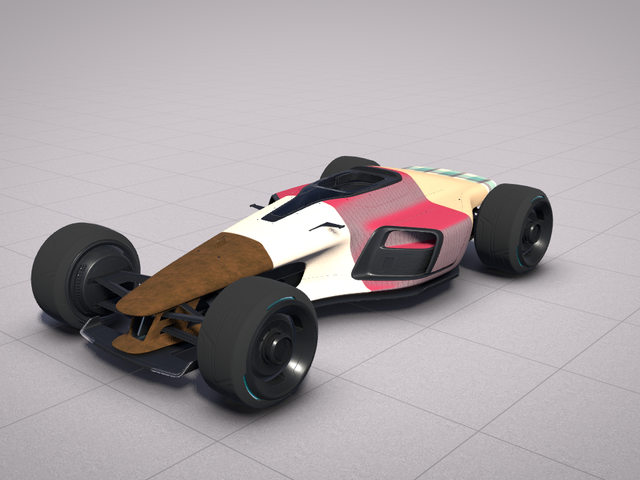
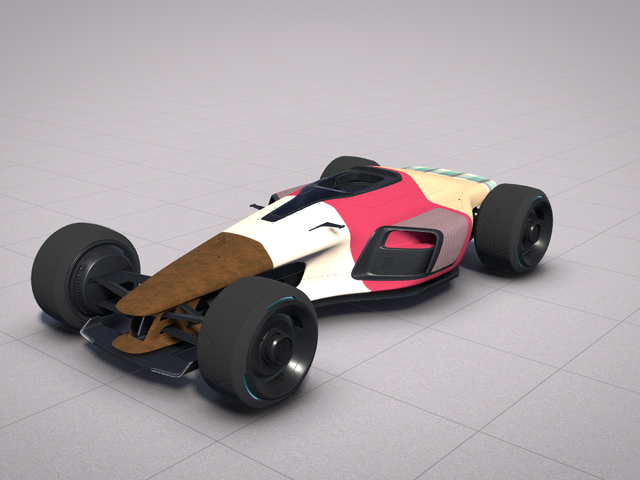
TSC_FurTest: the plush on the sidepod tops as whole pieces, not a split by facing (the user, 2026-10-18, on the sidepod top: 'Why is this different when it comes to angles?', 'still weird')
The velvet's soft edges came from a zone by facing and shifted with the surface's angle. The plush now covers each sidepod top whole, its seam the edge; the velvet keeps its straight cuts.

diff --git a/skins/TSC_FurTest/design.py b/skins/TSC_FurTest/design.py
@@ -9,12 +9,12 @@ WORDS = "an actual fur texture library"
 def design(s):
     s.clay()
     s.step("The piles", "Six photographed piles along the car, each in its own colours: animal fur on the nose, "
-           "teddy fur over the front wheels, velvet over the cockpit with plush down its flanks, fleece over the deck, "
-           "plaid fur on the tail.", words=WORDS)
+           "teddy fur over the front wheels, velvet over the cockpit, plush on the two sidepod tops (each piece whole, "
+           "its own seam the edge), fleece over the deck, plaid fur on the tail.", words=WORDS)
     s.paint("body", "fur")
     s.paint("body", "teddy fur", zone=shapes.band(40, 110), across=True)
     s.paint("body", "velvet", zone=shapes.band(-55, 40), across=True)
-    s.paint("body", "plush", zone=shapes.band(-55, 40) & shapes.sides(0.55), across=True)
+    s.paint("sidepod top", "plush")
     s.paint("body", "fleece", zone=shapes.band(-135, -55), across=True)
     s.paint("body", "plaid fur", zone=shapes.behind(-135), across=True)
     s.step("The rest", "The inner car and the wheels in gloss black plastic, the tyres rubber: nothing to distract "

diff --git a/skins/TSC_FurTest/notes.md b/skins/TSC_FurTest/notes.md
@@ -13,3 +13,9 @@ unfolding so each pile's nap runs along the car.
   blocks nothing (its notes: the bands' edges crossing the car's lines on purpose; the plush's soft edge where the
   flanks end it); the close looks find nothing to name. Open (the user): their judgement of each pile close up, then
   this car is deleted.
+- Change 1 (user, 2026-10-18, notes 1 and 2 on the left sidepod top, Claude Fable 5.1): "Why is this different when it comes to
+  angles?", "still weird". Read as: the velvet's soft edges, a split by which way the surface faces, shifting with the
+  surface's angle (the nap's direction measured: within a few degrees across the sidepod seam, so not that). Now the
+  plush covers each sidepod top whole, its own seam the edge, and the velvet keeps its straight cuts at z 40 and -55.
+  The judge blocks nothing; the close looks find nothing to name, and nothing changed outside the edit. Open (the
+  user): their judgement of each pile close up, then this car is deleted.
